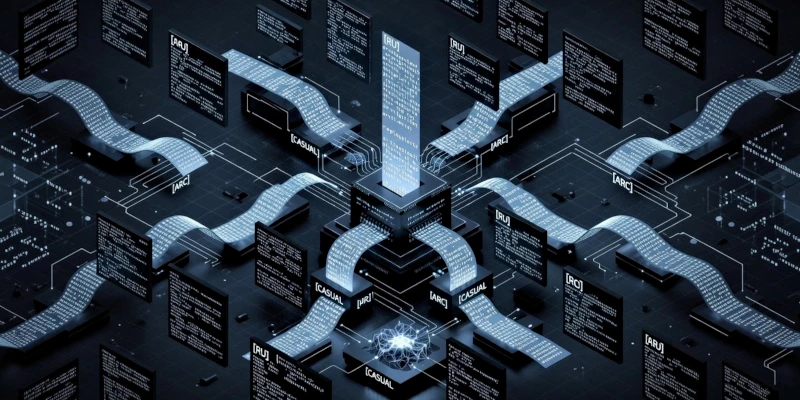
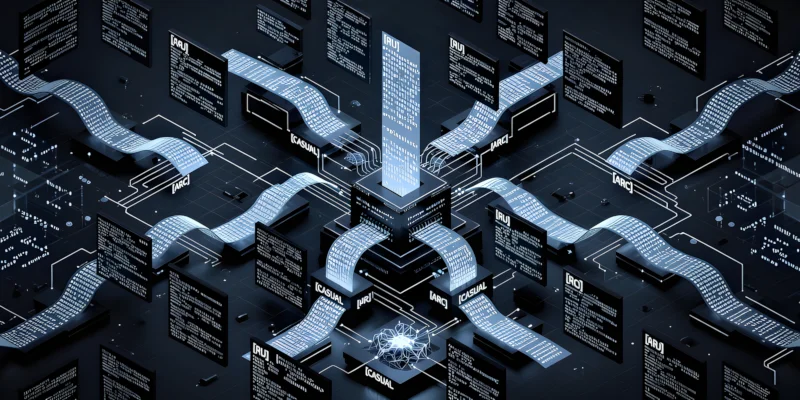
feat: replace JPG images with optimized WEBP format across various components

diff --git a/src/view/composables/use-features.ts b/src/view/composables/use-features.ts
@@ -2,15 +2,15 @@ import { computed } from 'vue';
 
 import { FeaturesEnum } from '@/enums/features.enum';
 import i18nImageHorizonatl from '@/view/assets/images/i18n-image-horizontal.webp';
-import i18nImage from '@/view/assets/images/i18n-image.jpg';
+import i18nImage from '@/view/assets/images/i18n-image.webp';
 import pipelineImageHorizontal from '@/view/assets/images/pipeline-image-horizontal.webp';
-import pipelineImage from '@/view/assets/images/pipeline-image.jpg';
+import pipelineImage from '@/view/assets/images/pipeline-image.webp';
 import seatmapImageHorizontal from '@/view/assets/images/seatmap-image-horizontal.webp';
-import seatmapImage from '@/view/assets/images/seatmap-image.jpg';
+import seatmapImage from '@/view/assets/images/seatmap-image.webp';
 import synchronizationImageHorizontal from '@/view/assets/images/synchronization-image-horizontal.webp';
-import synchronizationImage from '@/view/assets/images/synchronization-image.jpg';
+import synchronizationImage from '@/view/assets/images/synchronization-image.webp';
 import uiImageHorizontal from '@/view/assets/images/ui-image-horizontal.webp';
-import uiImage from '@/view/assets/images/ui-image.jpg';
+import uiImage from '@/view/assets/images/ui-image.webp';
 import i18nVideoHorizonatl from '@/view/assets/video/i18n-video-horizontal_loop.mp4';
 import i18nVideo from '@/view/assets/video/i18n-video_loop.mp4';
 import pipelineVideoHorizontal from '@/view/assets/video/pipeline-video-horizontal_loop.mp4';

diff --git a/src/view/components/travelshop-project/travelshop-project.vue b/src/view/components/travelshop-project/travelshop-project.vue
@@ -10,7 +10,7 @@
   } from '@/view/components/travelshop-project/types';
 
   import TravelshopImageHorizontal from '@/view/assets/images/travelshop-image-horizontal.webp';
-  import TravelshopImage from '@/view/assets/images/travelshop-image.jpg';
+  import TravelshopImage from '@/view/assets/images/travelshop-image.webp';
   import TravelshopIntro from '@/view/components/travelshop-project/parts/travelshop-intro/travelshop-intro.vue';
   import { useI18n } from '@/view/composables/use-i18n';
   import Button from '@/view/ui/ui-button/ui-button.vue';

diff --git a/src/view/components/about/about.vue b/src/view/components/about/about.vue
@@ -12,7 +12,7 @@
   import type { ListItem } from '@/view/components/about/types';
 
   import TechStackArtHorizontal from '@/view/assets/images/tech-stack-art-horizontal.webp';
-  import TechStackArt from '@/view/assets/images/tech-stack-art.jpg';
+  import TechStackArt from '@/view/assets/images/tech-stack-art.webp';
   import AboutTech from '@/view/components/about/parts/about-tech/about-tech.vue';
   import AiFeature from '@/view/components/about/parts/ai-feature/ai-feature.vue';
   import { useI18n } from '@/view/composables/use-i18n';

diff --git a/src/view/components/remote-workplace/remote-workplace.vue b/src/view/components/remote-workplace/remote-workplace.vue
@@ -4,7 +4,7 @@
   import { computed } from 'vue';
 
   import RemoveWorkplaceImageHorizontal from '@/view/assets/images/remote-workstation-horizontal.webp';
-  import RemoveWorkplaceImage from '@/view/assets/images/remote-workstation.jpg';
+  import RemoveWorkplaceImage from '@/view/assets/images/remote-workstation.webp';
   import { useI18n } from '@/view/composables/use-i18n.ts';
   import UiImage from '@/view/ui/ui-image/ui-image.vue';
 

diff --git a/src/view/components/about/parts/ai-feature/ai-feature.vue b/src/view/components/about/parts/ai-feature/ai-feature.vue
@@ -2,7 +2,7 @@
   import '@/view/components/about/parts/ai-feature/ai-feature.scss';
 
   import AiImageHorizontal from '@/view/assets/images/ai-block-horizontal.webp';
-  import AiImage from '@/view/assets/images/ai-block.jpg';
+  import AiImage from '@/view/assets/images/ai-block.webp';
   import { useI18n } from '@/view/composables/use-i18n';
   import UiImage from '@/view/ui/ui-image/ui-image.vue';
 
